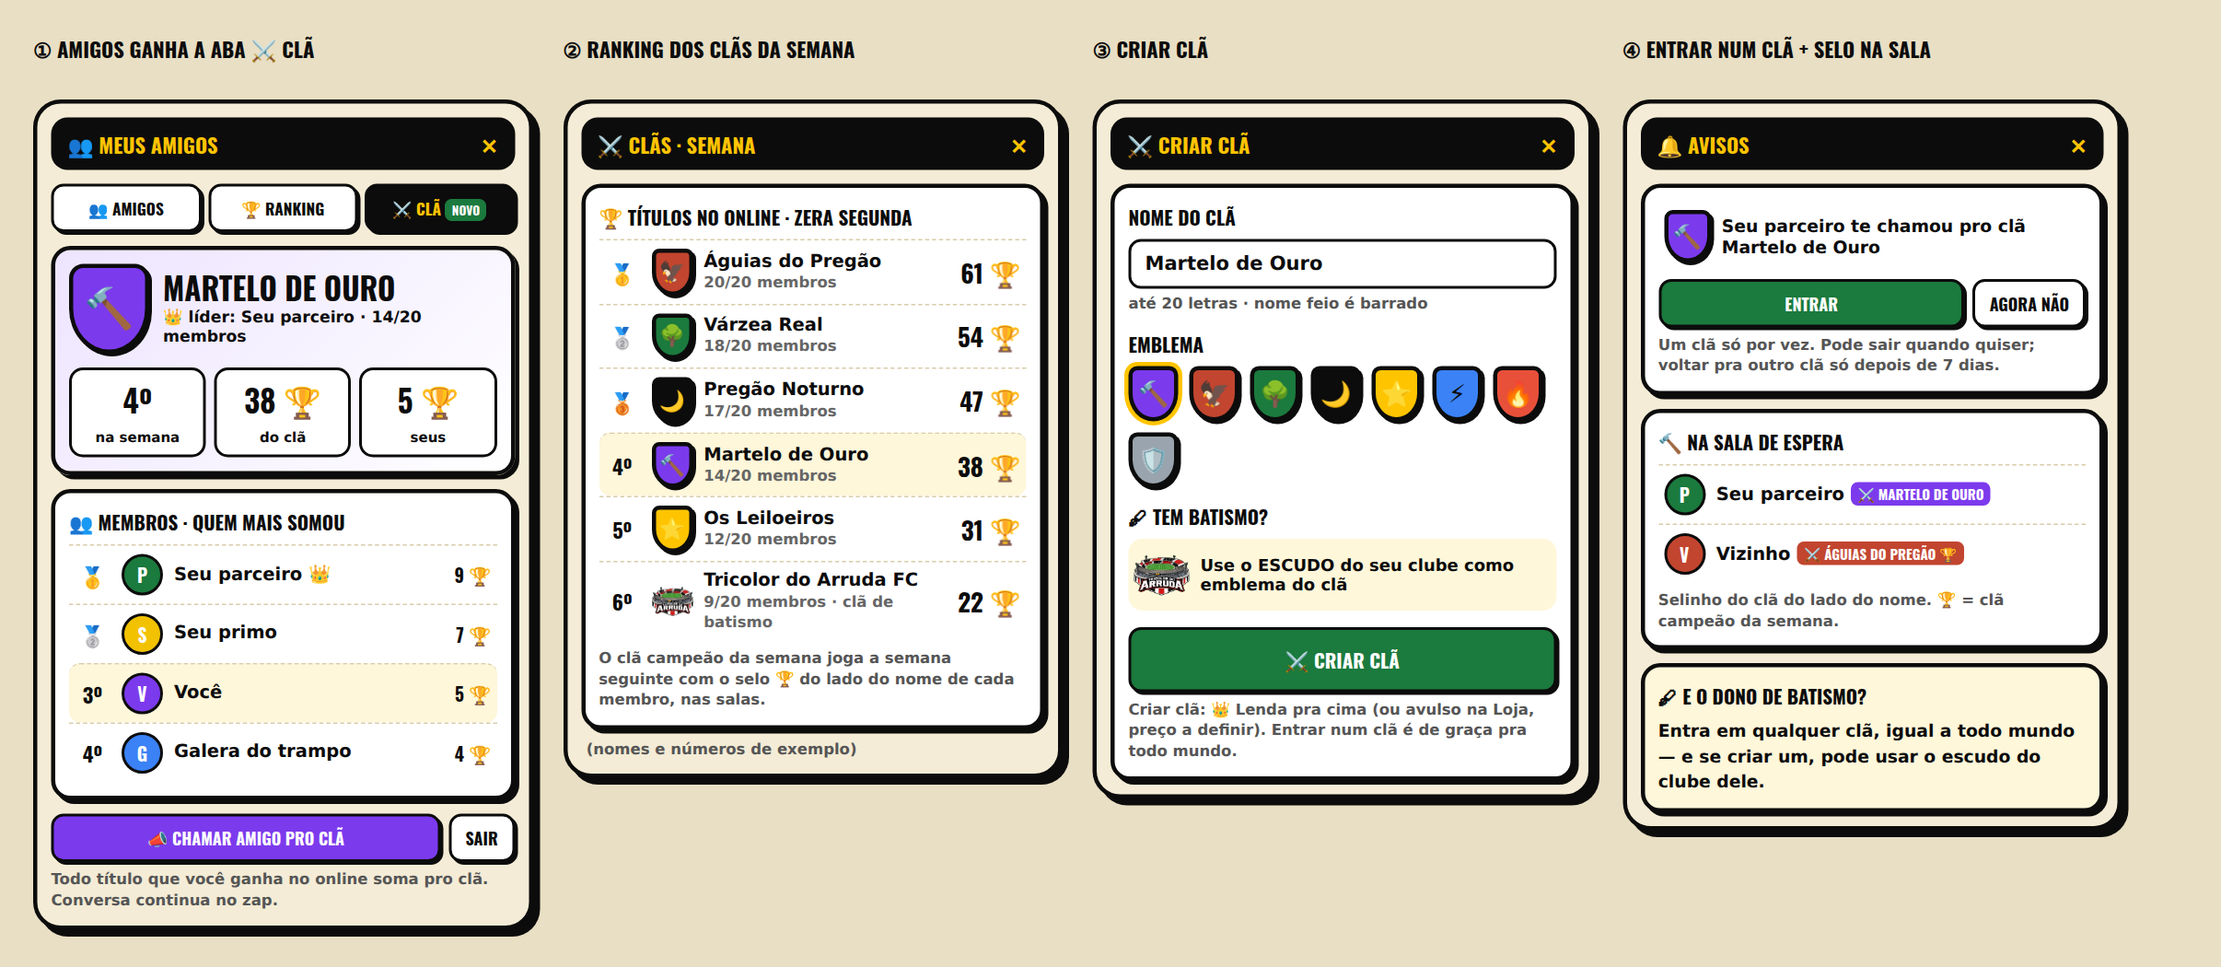
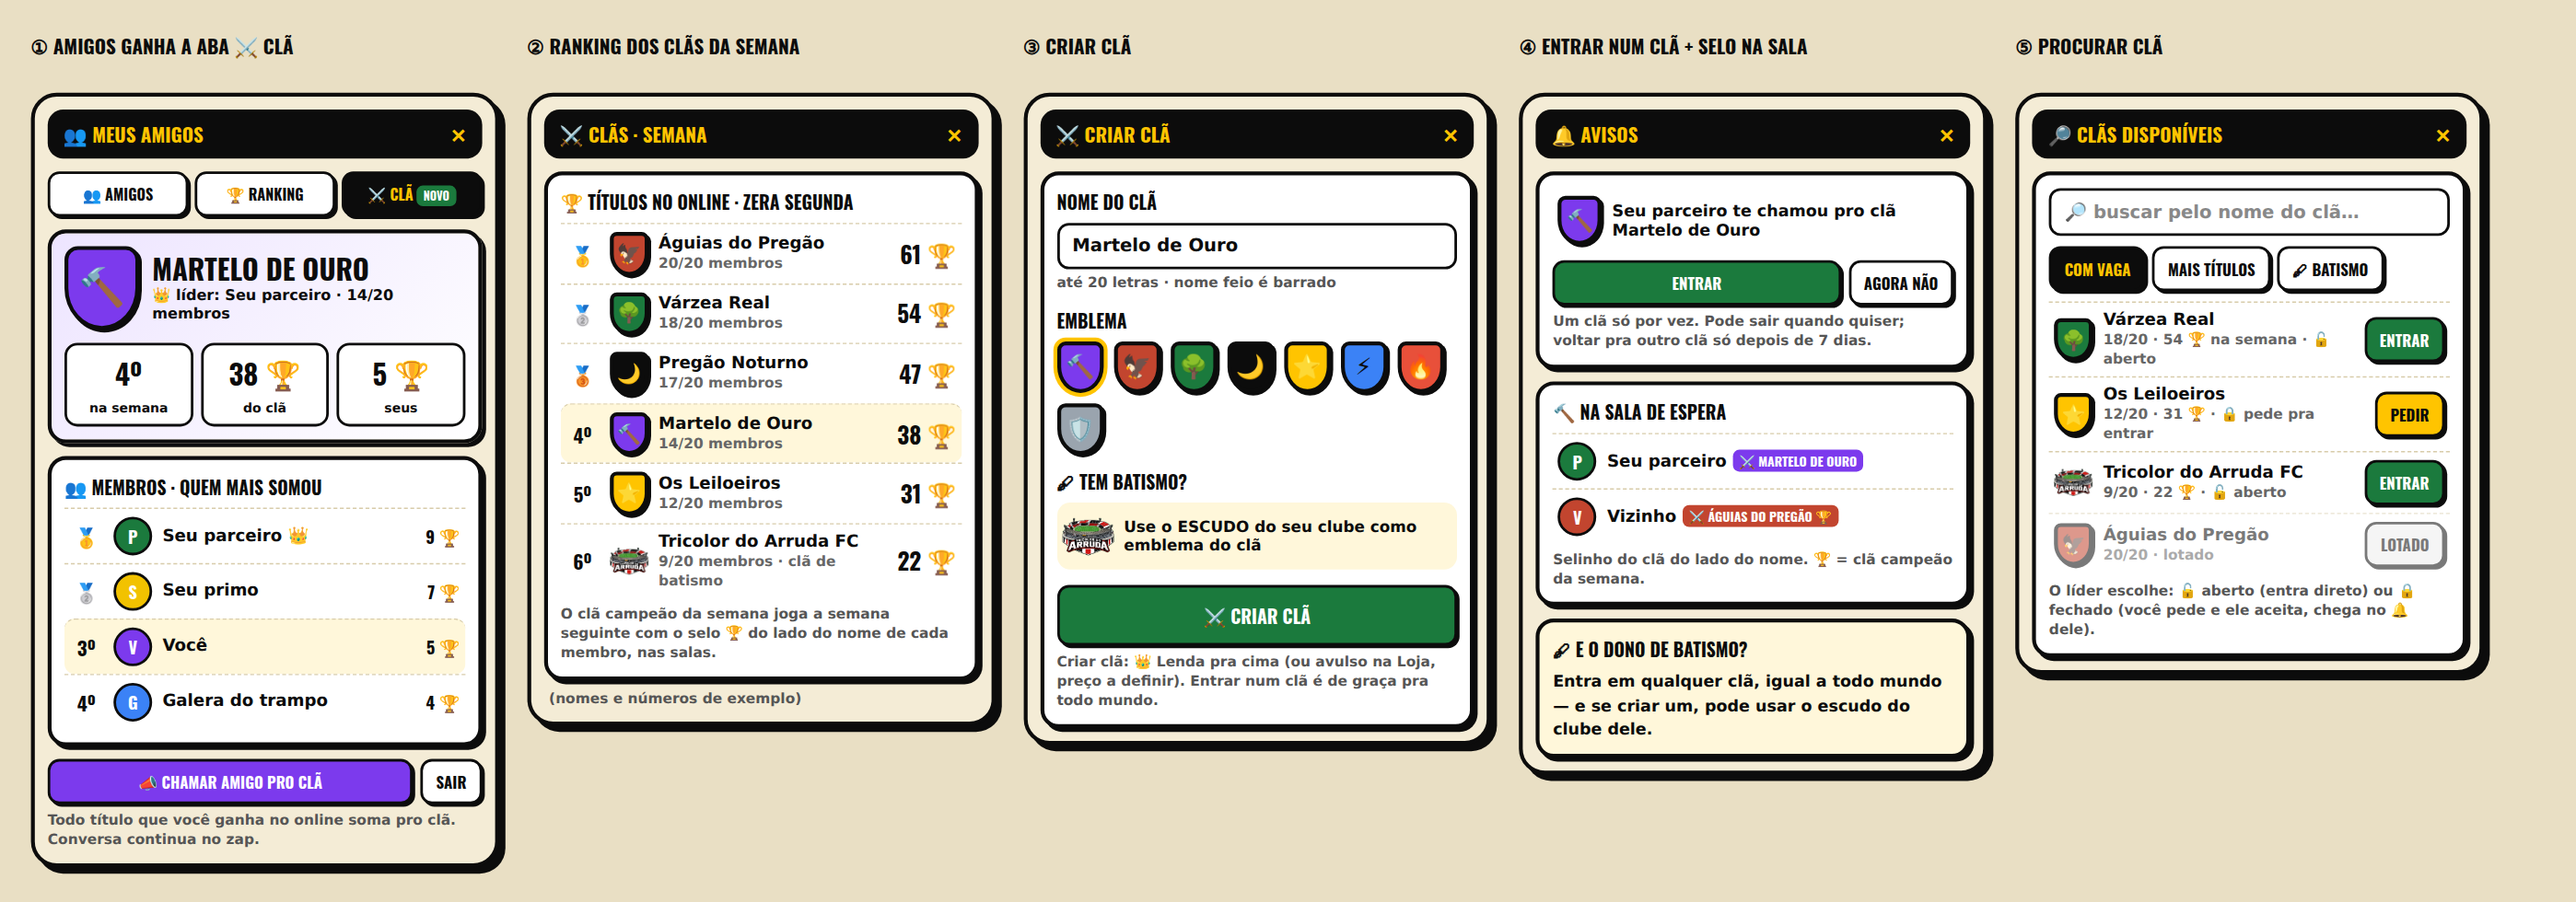
Mockup dos Clãs: + painel Procurar clã (aberto/fechado, com vaga, filtros)
Claude-Session: https://claude.ai/code/session_018Ap1zPCMVL9XeZJN3u93ZA

diff --git a/docs/pendencias.md b/docs/pendencias.md
@@ -129,7 +129,7 @@
 - ⏳ **⚔ CLÃS (19/10, ele preferiu à Torcida, SEM rivalidade entre clãs: *"faça o mockup sem esse negócio de rival"*)** — mockup
   enviado, ESPERANDO OK: `scripts/mockups/clas.png`. Qualquer um cria (nome com filtro + emblema pronto; batismo pode usar o
   escudo do clube), até 20 membros, líder, títulos online somam pro clã, ranking semanal de clãs, selo na sala. Criar = Lenda+
-  ou avulso (preço a definir); entrar é grátis. Dono de batismo entra em qualquer clã como todo mundo.
+  ou avulso (preço a definir); entrar é grátis. ⑤ Procurar clã: busca + filtros (com vaga · mais títulos · batismo); líder escolhe 🔓 aberto (entra direto) ou 🔒 fechado (pede, chega no 🔔 do líder). Dono de batismo entra em qualquer clã como todo mundo.
 - ⏳ **🚩 TORCIDAS (ideia 19/10, no lugar de "clãs")** — mockup enviado, ESPERANDO OK: `scripts/mockups/torcidas.png`. Cada um
   entra na torcida de UM clube batizado (dono já nasce na dele; troca 1x por mês), todo título online soma pra torcida, ranking
   semanal das torcidas, ⚔ clássico da semana (2 torcidas sorteadas), selinho da torcida na sala. Só placar, sem chat (zap) e sem
